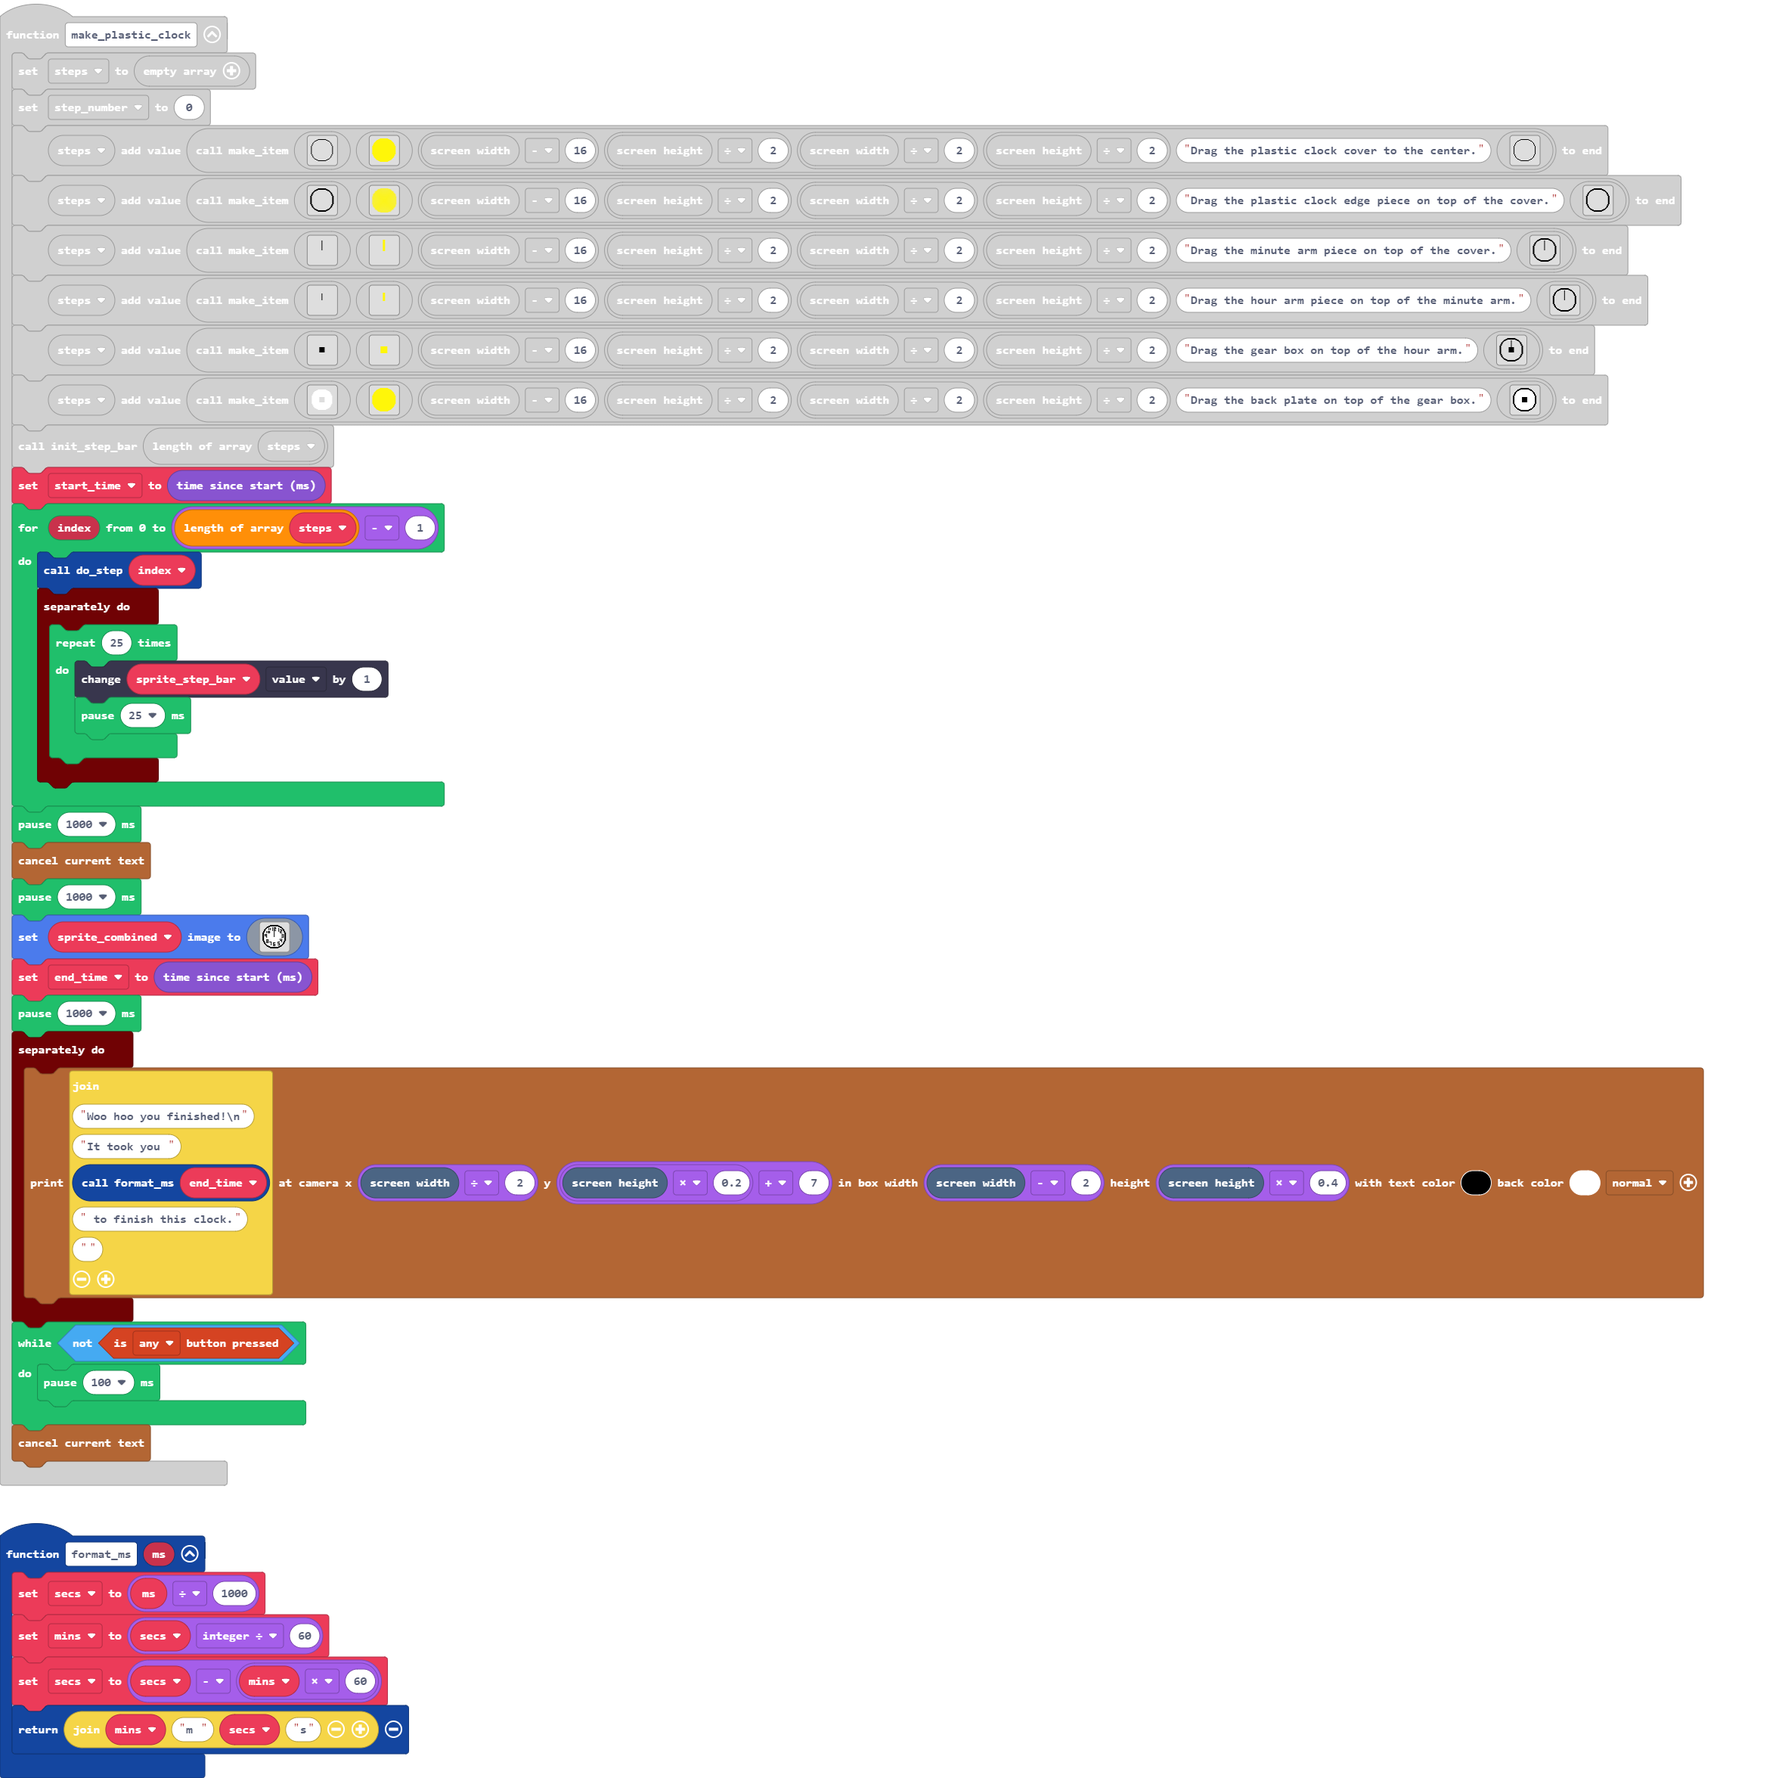
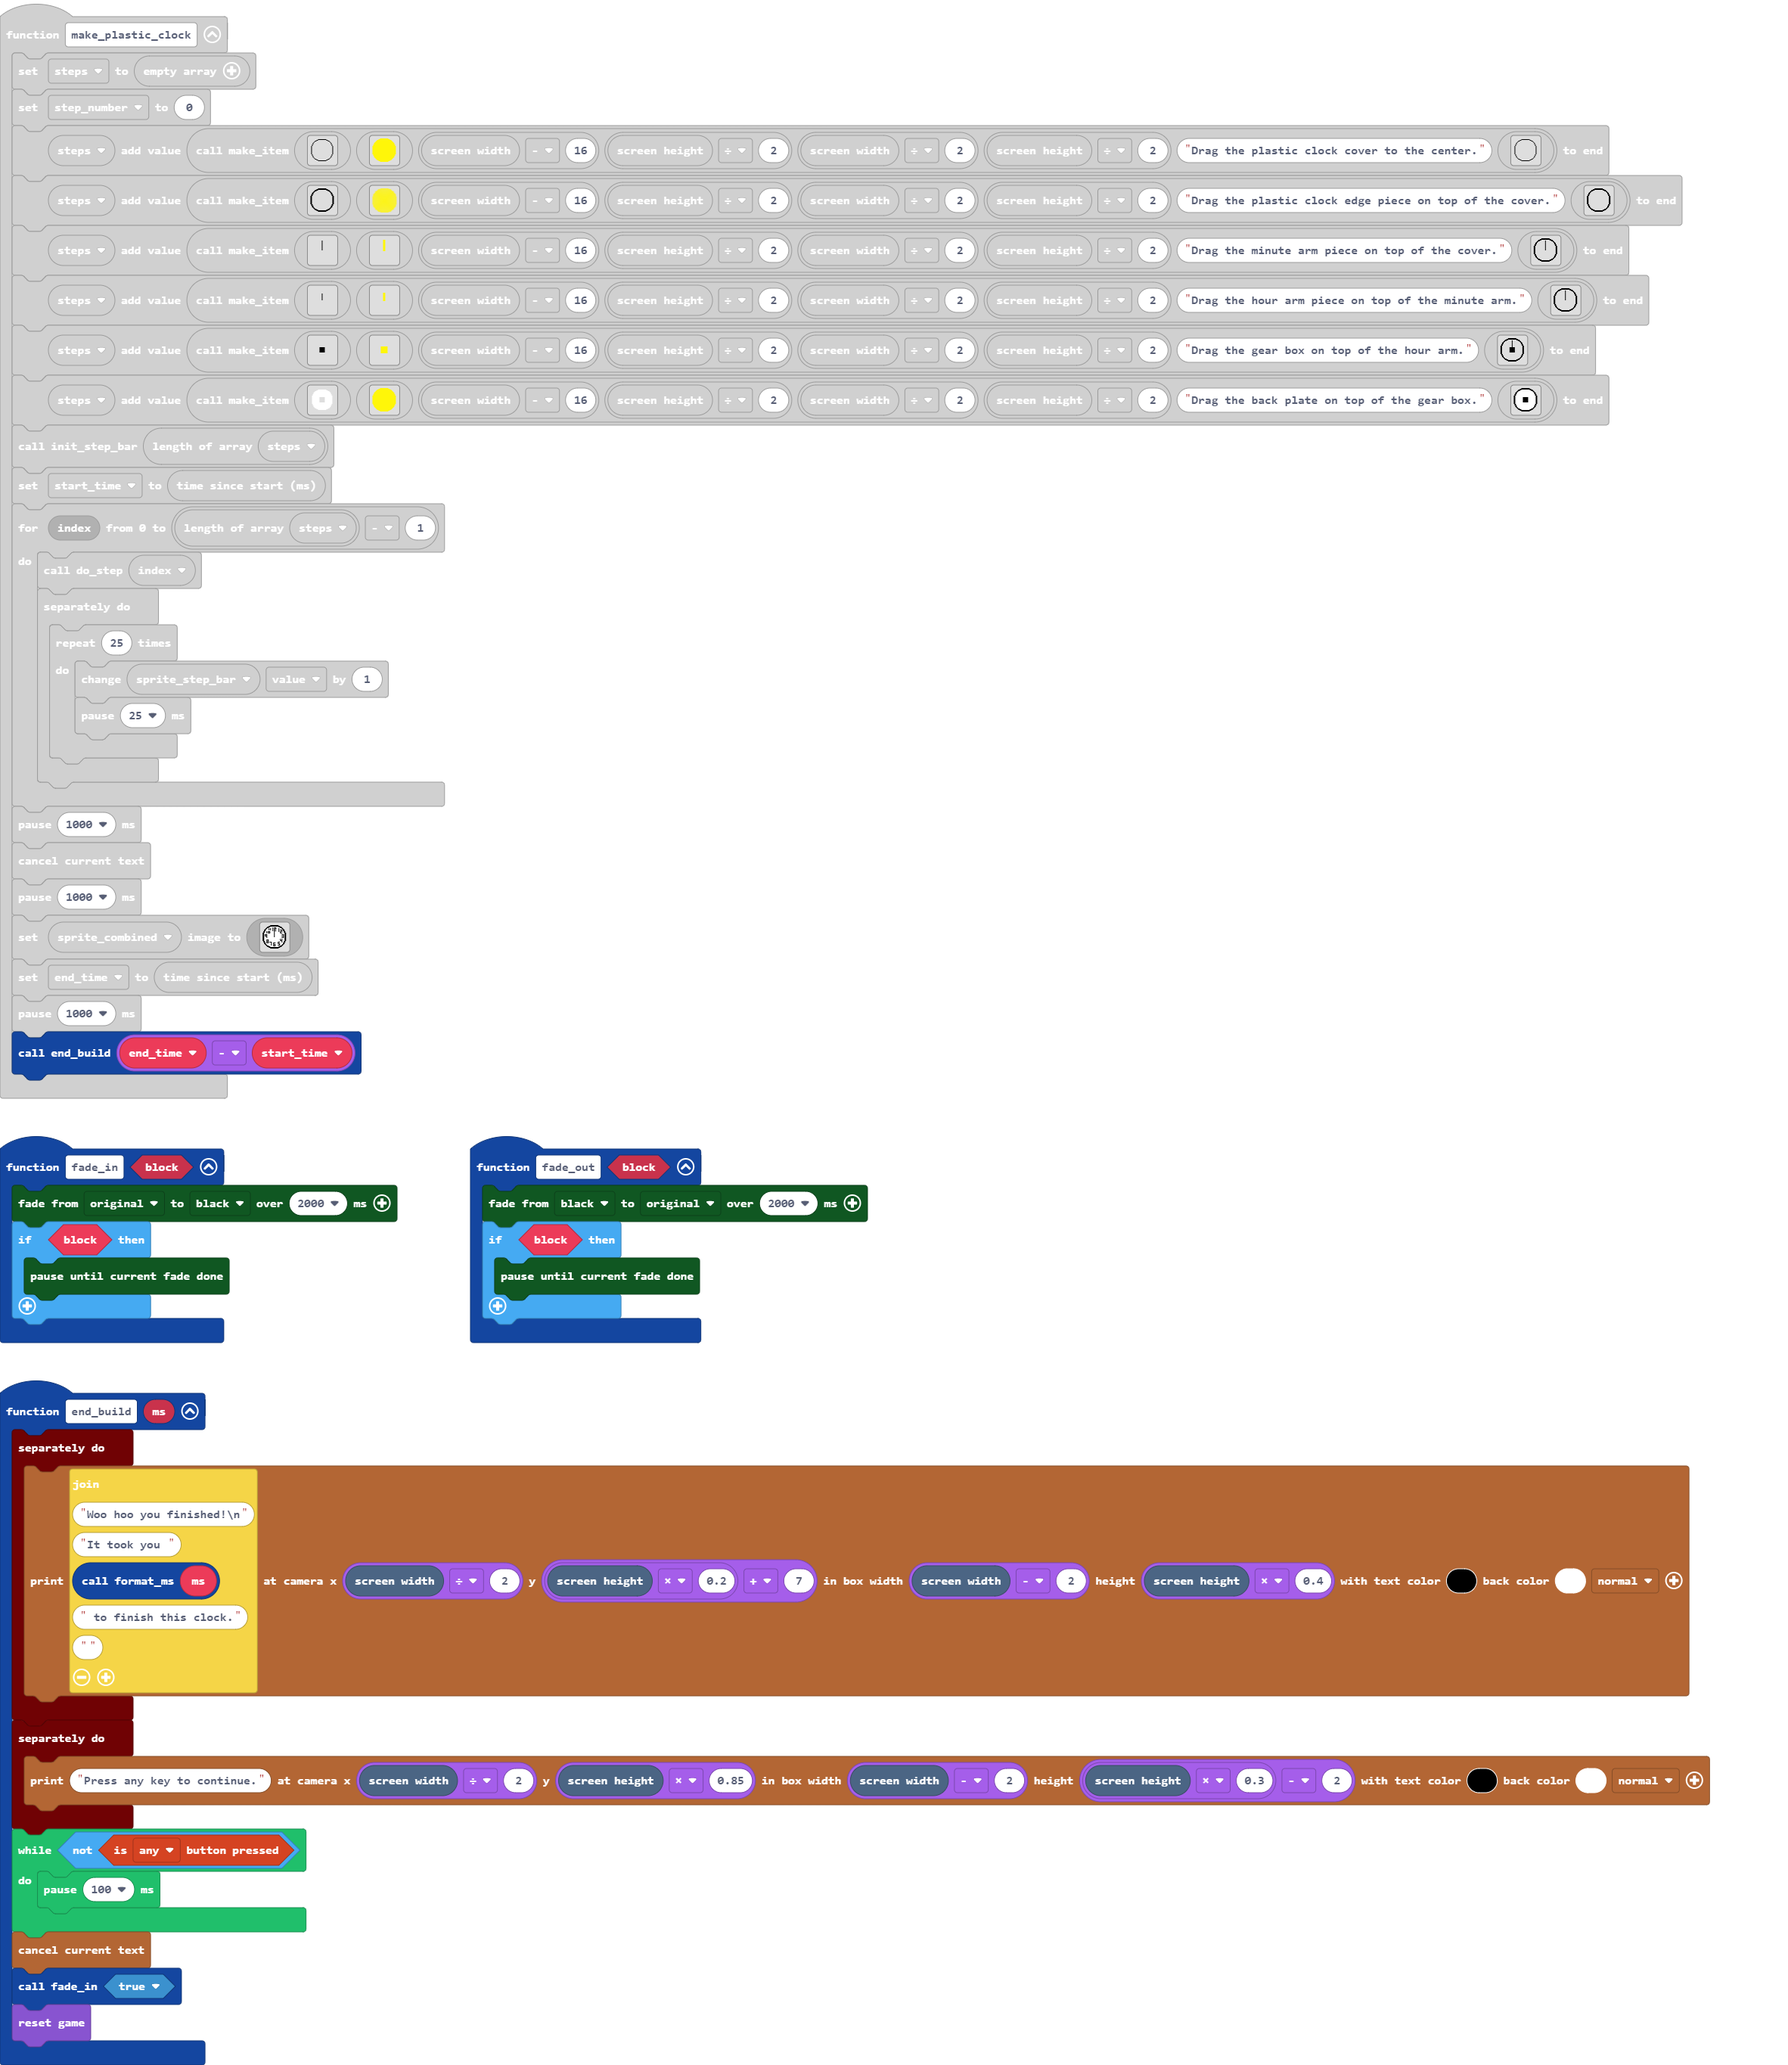
Fade in at end of build

diff --git a/main.ts b/main.ts
@@ -19,6 +19,20 @@ namespace ImageProp {
 namespace StatusBarKind {
     export const Steps = StatusBarKind.create()
 }
+function end_build (ms: number) {
+    timer.background(function () {
+        story.printDialog("Woo hoo you finished!\\n" + "It took you " + format_ms(ms) + " to finish this clock." + "", scene.screenWidth() / 2, scene.screenHeight() * 0.2 + 7, scene.screenHeight() * 0.4, scene.screenWidth() - 2)
+    })
+    timer.background(function () {
+        story.printDialog("Press any key to continue.", scene.screenWidth() / 2, scene.screenHeight() * 0.85, scene.screenHeight() * 0.3 - 2, scene.screenWidth() - 2)
+    })
+    while (!(controller.anyButton.isPressed())) {
+        pause(100)
+    }
+    story.clearAllText()
+    fade_in(true)
+    game.reset()
+}
 function init_step_bar (max_steps: number) {
     sprite_step_bar = statusbars.create(scene.screenWidth() - 2, 3, StatusBarKind.Steps)
     sprite_step_bar.x = scene.screenWidth() / 2
@@ -54,6 +68,18 @@ function do_step (index: number) {
     }
     sprite_combined.setPosition(blockObject.getNumberProperty(step_object, NumProp.target_x), blockObject.getNumberProperty(step_object, NumProp.target_y))
     pause(1000)
+}
+function fade_out (block: boolean) {
+    color.startFade(color.Black, color.originalPalette, 2000)
+    if (block) {
+        color.pauseUntilFadeDone()
+    }
+}
+function fade_in (block: boolean) {
+    color.startFade(color.originalPalette, color.Black, 2000)
+    if (block) {
+        color.pauseUntilFadeDone()
+    }
 }
 function make_hand () {
     sprite_hand = sprites.create(assets.image`hand`, SpriteKind.Player)
@@ -105,13 +131,7 @@ function make_plastic_clock () {
     sprite_combined.setImage(assets.image`plastic_clock_finished`)
     end_time = game.runtime()
     pause(1000)
-    timer.background(function () {
-        story.printDialog("Woo hoo you finished!\\n" + "It took you " + format_ms(end_time) + " to finish this clock." + "", scene.screenWidth() / 2, scene.screenHeight() * 0.2 + 7, scene.screenHeight() * 0.4, scene.screenWidth() - 2)
-    })
-    while (!(controller.anyButton.isPressed())) {
-        pause(100)
-    }
-    story.clearAllText()
+    end_build(end_time - start_time)
 }
 function format_ms (ms: number) {
     secs = ms / 1000
